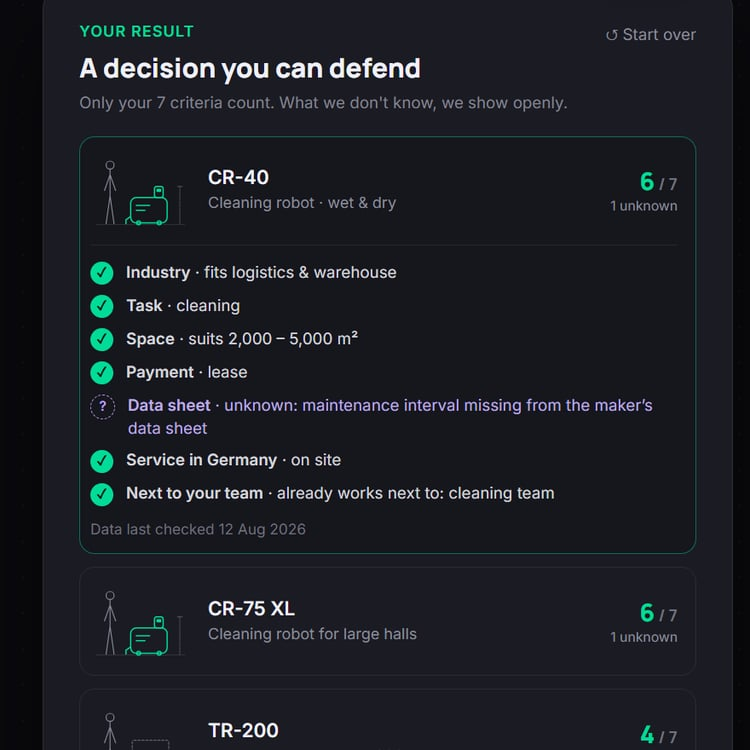
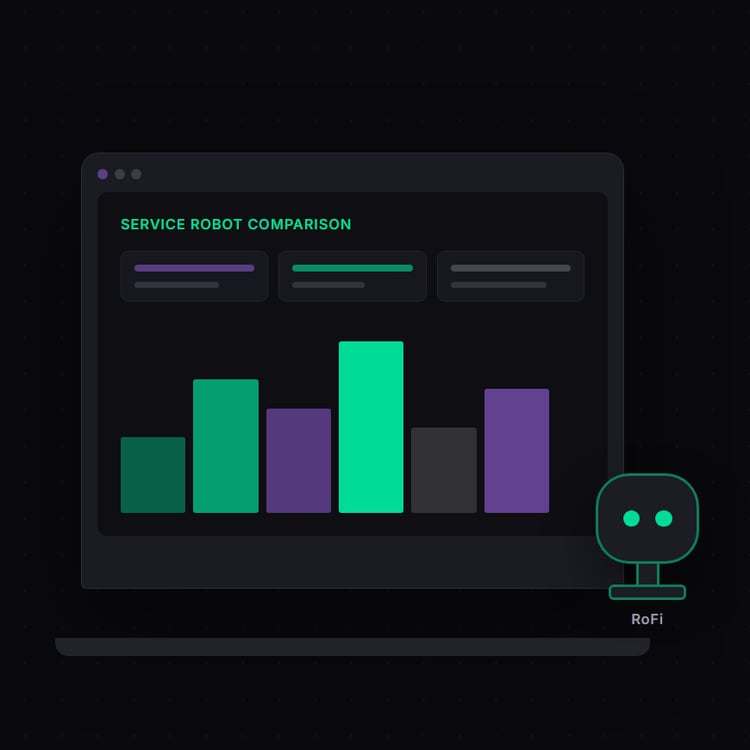
RoboFinder card: original design pictures, links to /robofinder/

diff --git a/src/content/projects/en/robofinder.md b/src/content/projects/en/robofinder.md
@@ -7,24 +7,24 @@ builtWith: "Prototype built with Claude"
 tags: ["Human-Centred AI", "Interaction design", "Prototyping"]
 order: 2.5
 cover: "/images/robofinder/cover.jpg"
-coverAlt: "The RoboFinder homepage prototype: the headline on the left, and the first step of the guided needs check on the right."
+coverAlt: "The RoboFinder homepage: the headline on the left and a service robot comparison dashboard with the RoFi mascot on the right."
 # On the Design projects page: short name, its own picture, and the card opens the separate project page.
 listTitle: "RoboFinder"
 listCover: "/images/robofinder/card.jpg"
 listShape: "1 / 1"
-listHref: "https://mahyamirzaee.github.io/alongside/"
+listHref: "https://mahyamirzaee.github.io/robofinder/"
 links:
   - label: "Project page"
-    url: "https://mahyamirzaee.github.io/alongside/"
+    url: "https://mahyamirzaee.github.io/robofinder/"
   - label: "Clickable prototype"
-    url: "https://mahyamirzaee.github.io/alongside/prototype.html"
+    url: "https://mahyamirzaee.github.io/robofinder/prototype.html"
 gallery:
-  - src: "/images/robofinder/result.jpg"
-    alt: "The recommendation: three robots, the first one open with seven criteria, six met and one marked unknown."
-    caption: "Recommendation view: each robot is compared with the user's criteria, and missing data is shown instead of left blank."
-  - src: "/images/robofinder/robots.jpg"
-    alt: "Four robot categories drawn as line drawings, each beside a 1.75 m figure with its height marked."
-    caption: "Robot categories: each robot is drawn next to a person, so its size is easy to understand."
+  - src: "/images/robofinder/needs-check.jpg"
+    alt: "The needs check section: Which robot fits your business? Step 2 of 4 asks which industry you are in."
+    caption: "Needs check: a few guided questions lead to matching robot models instead of a long list."
+  - src: "/images/robofinder/problem.jpg"
+    alt: "The problem section with four cards, and the smart matching block with two paths: browse robots or use the needs check."
+    caption: "Problem framing and smart matching: two paths, browsing or a guided check, lead to one result."
 inPortfolio: false
 ---
 
